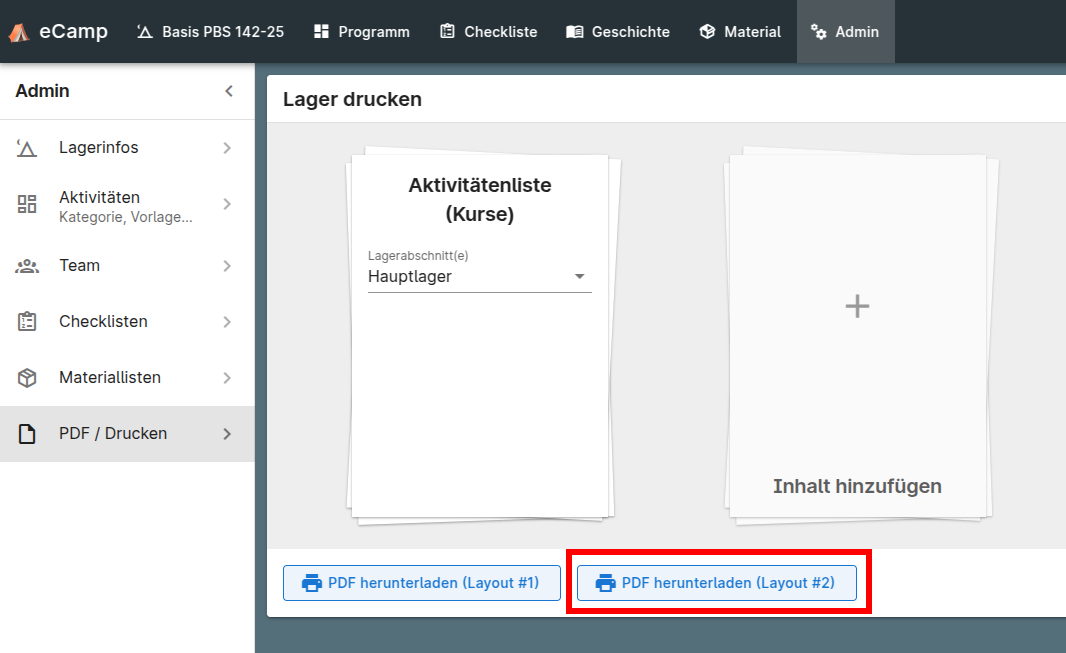
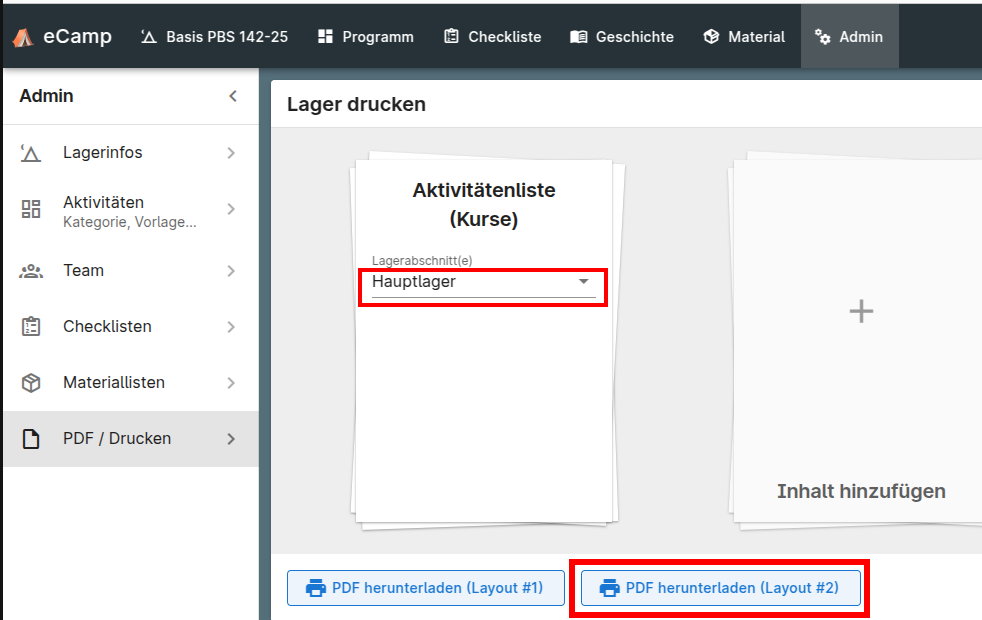
improve ecamp3 import hint

diff --git a/lang/de/t.php b/lang/de/t.php
@@ -238,7 +238,7 @@ return array(
 				"ecamp3" => array(
 					"block_overview" => "Aktivitätenliste (Kurse)",
 					"how_to_get_the_block_overview" => array(
-						"answer" => "Wenn du die Blöcke in deinem Kurs auf :ecamp3 erfasst hast, gehe dort in der Navigation zu \"Admin\" -> \"PDF / Drucken\", oder auf Mobile in der Navigation zu \"Mehr\" -> \"PDF / Drucken\". Danach kannst du die \"Aktivitätenliste (Kurse)\" als PDF herunterladen (Layout #2).",
+						"answer" => "Wenn du die Blöcke in deinem Kurs auf :ecamp3 erfasst hast, gehe dort in der Navigation zu \"Admin\" -> \"PDF / Drucken\", oder auf Mobile in der Navigation zu \"Mehr\" -> \"PDF / Drucken\". Danach kannst du bei \"Aktivitätenliste (Kurse)\" den Lagerabschnitt auswählen und als PDF herunterladen (Layout #2). Beachte, dass qualix nur Blöcke mit der Standard Nummerierung importieren kann (z.B. 1.1, 1.2, etc.)",
 						"question" => "Woher bekomme ich die Aktivitätenliste?",
 					),
 					"name" => "eCamp v3",
